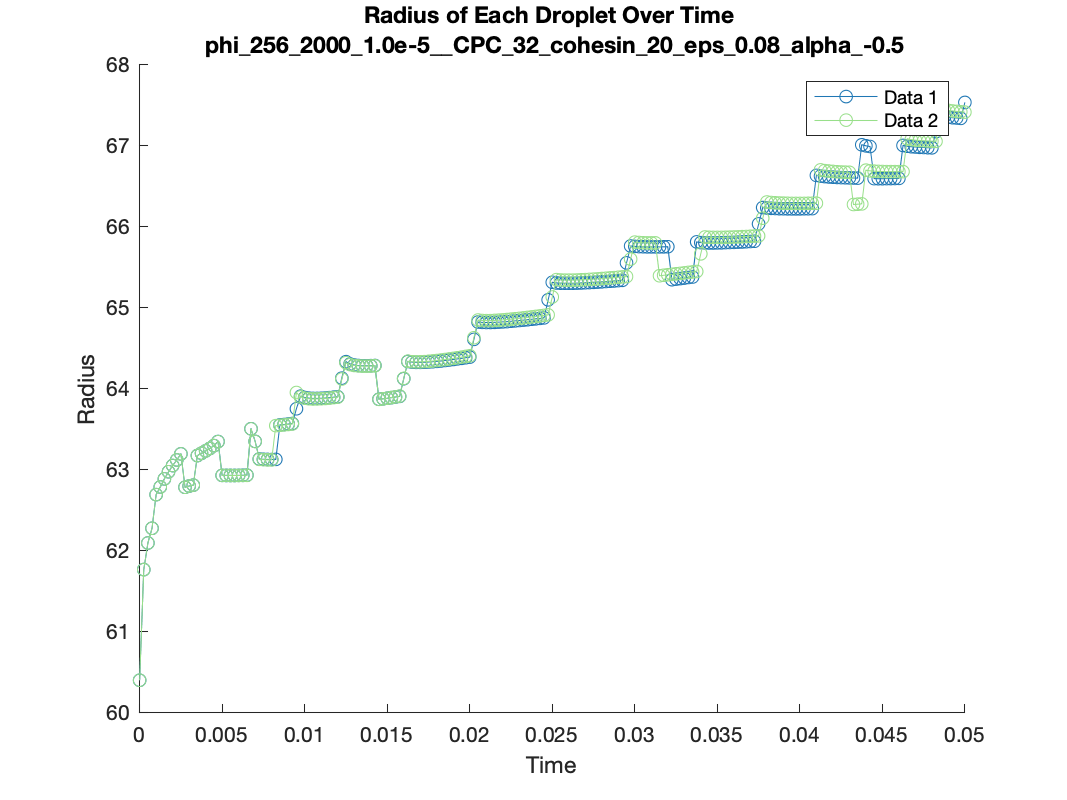
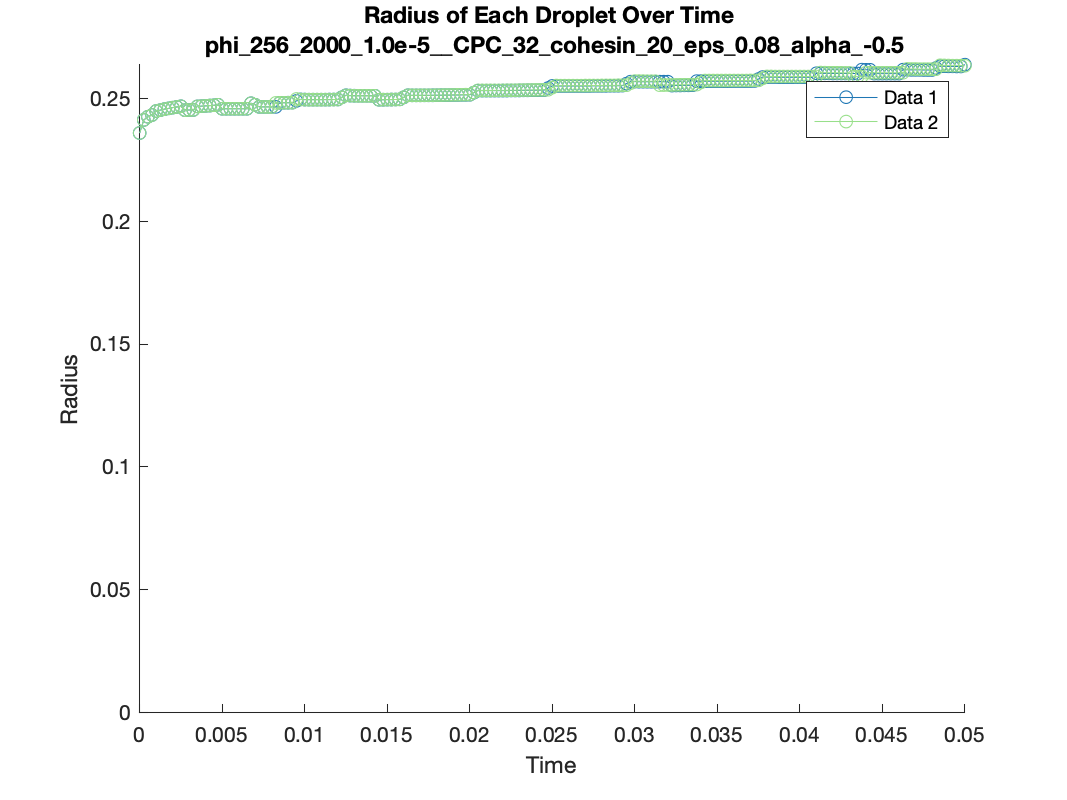
cpc radii 2

diff --git a/Cahn_Hilliard_solvers/plotting/level_set_radius_multiple_droplets.m b/Cahn_Hilliard_solvers/plotting/level_set_radius_multiple_droplets.m
@@ -1,7 +1,7 @@
 % Code transparency: part of this code was generated with ChatGPT4o.
 % June 25, 2025
 % Sarah Maddox Groves
-function [] = level_set_radius_multiple_droplets(CPC, cohesin, epsilon, indir)
+function [] = level_set_radius_multiple_droplets(CPC, cohesin, epsilon, indir, plottimepoint)
     % indir="/Users/smgroves/Documents/GitHub/Cahn_Hilliard_Model/Cahn_Hilliard_solvers/julia_multigrid/manuscript_output/CPC_geometry/CPC_alpha_-0.5";
     Nx = 2^8;Ny=2^8;
 
@@ -63,7 +63,7 @@ function [] = level_set_radius_multiple_droplets(CPC, cohesin, epsilon, indir)
             centerX = mean(dropletContour(1, :));
             centerY = mean(dropletContour(2, :));
             distances = sqrt((dropletContour(1, :) - centerX).^2 + (dropletContour(2, :) - centerY).^2);
-            radius = mean(distances);
+            radius = mean(distances)/Nx;
             
             % Store droplet information
             droplet = struct('center', [centerX, centerY], 'radius', radius, 'id', 0);
@@ -100,7 +100,6 @@ function [] = level_set_radius_multiple_droplets(CPC, cohesin, epsilon, indir)
             try
                 % Match droplets to the previous time point
                 previousDroplets = [dropletData(t-1).droplets];
-                sprintf("previous droplets id %f",previousDroplets.id)
 
                 for i = 1:length(currentDroplets)
                 
@@ -139,81 +138,82 @@ function [] = level_set_radius_multiple_droplets(CPC, cohesin, epsilon, indir)
                 break %if the droplet dissolves, this will throw an error, so stop iterating over timepoints
             end
         end
-        if ismember(timepoint, [0, 0.004, 0.0075, 0.008, 0.01, 0.025, 0.04, 0.05])
-            data_at_t = data(:, :,t);
-        
-            % Create contour plot
-            hx = 1;
-            hy = 1;
-            x  = hx*(0:Nx-1);           
-            y  = hy*(0:Ny-1);
-            [xx,yy] = meshgrid(x,y); 
-            figure('visible', 'off');
-            contour(data_at_t, [0, 0], 'LineWidth', 2, "Color", '#808080'); axis square;
-            xlim([0, 256]);
-            ylim([0, 256]);
-            hold on;
-        
-            % Extract contours at the 0 level
-            contourMatrix = contourc(data_at_t, [0, 0]);
-        
-            % Parse the contour matrix
-            startIdx = 1;
-            droplets = struct();
-        
-            while startIdx < size(contourMatrix, 2)
-                numPoints = contourMatrix(2, startIdx);
-                dropletContour = contourMatrix(:, startIdx+1:startIdx+numPoints);
-        
-                % Store droplet contour
-                droplets(end+1).contour = dropletContour;
-        
-                % Calculate the radius as the average distance from the center
-                centerX = mean(dropletContour(1, :));
-                centerY = mean(dropletContour(2, :));
-                distances = sqrt((dropletContour(1, :) - centerX).^2 + (dropletContour(2, :) - centerY).^2);
-                droplets(end).radius = mean(distances);
-                color = 'k';
-                label = 'Unknown';
-                % match colors
-                for i = 1:length(trackedDroplets)
-                    if abs(centerX-dropletData(t).droplets(i).center(1)) < 0.5 && abs(centerY-dropletData(t).droplets(i).center(2)) < 0.5
-                        color = colors{dropletData(t).droplets(i).id};
-                        label = sprintf('Data %d', dropletData(t).droplets(i).id);
-                        break
+        if false
+            if ismember(timepoint, [0, 0.004, 0.0075, 0.008, 0.01, 0.025, 0.04, 0.05])
+                data_at_t = data(:, :,t);
+            
+                % Create contour plot
+                hx = 1;
+                hy = 1;
+                x  = hx*(0:Nx-1);           
+                y  = hy*(0:Ny-1);
+                [xx,yy] = meshgrid(x,y); 
+                figure('visible', 'off');
+                contour(data_at_t, [0, 0], 'LineWidth', 2, "Color", '#808080'); axis square;
+                xlim([0, 256]);
+                ylim([0, 256]);
+                hold on;
+            
+                % Extract contours at the 0 level
+                contourMatrix = contourc(data_at_t, [0, 0]);
+            
+                % Parse the contour matrix
+                startIdx = 1;
+                droplets = struct();
+            
+                while startIdx < size(contourMatrix, 2)
+                    numPoints = contourMatrix(2, startIdx);
+                    dropletContour = contourMatrix(:, startIdx+1:startIdx+numPoints);
+            
+                    % Store droplet contour
+                    droplets(end+1).contour = dropletContour;
+            
+                    % Calculate the radius as the average distance from the center
+                    centerX = mean(dropletContour(1, :));
+                    centerY = mean(dropletContour(2, :));
+                    distances = sqrt((dropletContour(1, :) - centerX).^2 + (dropletContour(2, :) - centerY).^2);
+                    droplets(end).radius = mean(distances);
+                    color = 'k';
+                    label = 'Unknown';
+                    % match colors
+                    for i = 1:length(trackedDroplets)
+                        if abs(centerX-dropletData(t).droplets(i).center(1)) < 0.5 && abs(centerY-dropletData(t).droplets(i).center(2)) < 0.5
+                            color = colors{dropletData(t).droplets(i).id};
+                            label = sprintf('Data %d', dropletData(t).droplets(i).id);
+                            break
+                        end
                     end
+                    % Plot the center and radius
+                    plot(centerX, centerY, 'r+', 'MarkerSize', 10, 'LineWidth', 2,'Color', color, "DisplayName", label); axis square;
+                    viscircles([centerX, centerY], droplets(end).radius, 'EdgeColor', color); axis square;
+            
+                    % Move to the next contour
+                    startIdx = startIdx + numPoints + 1;
                 end
-                % Plot the center and radius
-                plot(centerX, centerY, 'r+', 'MarkerSize', 10, 'LineWidth', 2,'Color', color, "DisplayName", label); axis square;
-                viscircles([centerX, centerY], droplets(end).radius, 'EdgeColor', color); axis square;
-        
-                % Move to the next contour
-                startIdx = startIdx + numPoints + 1;
+                
+                % for i = 1:length(currentDroplets)
+                %     plot(dropletData(t).droplets(i).center(1), dropletData(t).droplets(i).center(2), 'x', 'MarkerSize', 10, 'LineWidth', 2,"Color", colors{dropletData(t).droplets(i).id},"DisplayName", sprintf("Current Droplet %d", dropletData(t).droplets(i).id)); axis square;
+                % 
+                % end
+
+
+                title(sprintf('Timepoint %f \n %s', timepoint, name));
+            
+                % Display results
+                % for i = 1:length(droplets)
+                %     try
+                %         fprintf('Droplet %d: Center = (%.2f, %.2f), Radius = %.6f\n', ...
+                %         i, mean(droplets(i).contour(1, :)), mean(droplets(i).contour(2, :)), droplets(i).radius);
+                %     end
+                % end
+                legend show;
+
+                sprintf('%s/radii_at_t_%s.pdf', outdir, timepoint)
+                print(gcf,sprintf('%s/radii_at_t_%f.png', outdir, timepoint),"-dpng")
+                
+                hold off;
             end
-            
-            % for i = 1:length(currentDroplets)
-            %     plot(dropletData(t).droplets(i).center(1), dropletData(t).droplets(i).center(2), 'x', 'MarkerSize', 10, 'LineWidth', 2,"Color", colors{dropletData(t).droplets(i).id},"DisplayName", sprintf("Current Droplet %d", dropletData(t).droplets(i).id)); axis square;
-            % 
-            % end
-
-
-            title(sprintf('Timepoint %f \n %s', timepoint, name));
-        
-            % Display results
-            % for i = 1:length(droplets)
-            %     try
-            %         fprintf('Droplet %d: Center = (%.2f, %.2f), Radius = %.6f\n', ...
-            %         i, mean(droplets(i).contour(1, :)), mean(droplets(i).contour(2, :)), droplets(i).radius);
-            %     end
-            % end
-            legend show;
-
-            sprintf('%s/radii_at_t_%s.pdf', outdir, timepoint)
-            print(gcf,sprintf('%s/radii_at_t_%f.png', outdir, timepoint),"-dpng")
-            
-            hold off;
         end
-
     end
 
     % Plot the radius of each droplet over time
@@ -225,6 +225,7 @@ function [] = level_set_radius_multiple_droplets(CPC, cohesin, epsilon, indir)
     xlabel('Time');
     ylabel('Radius');
     xlim([0, total_time]);
+    ylim([0,inf]);
     title(sprintf('Radius of Each Droplet Over Time \n %s', name));
     legend show;
     % sprintf('%s/radii_over_time.pdf', outdir)
@@ -233,20 +234,22 @@ function [] = level_set_radius_multiple_droplets(CPC, cohesin, epsilon, indir)
     print(gcf,sprintf('%s/radii_over_time.png', outdir),"-dpng")
     hold off;
 
-    figure('visible', 'off');
-    hold on;
-    for i=1:length(trackedDroplets)
-        plot(trackedDroplets(i).center(1), trackedDroplets(i).center(2), 'r+', 'MarkerSize', 10, 'LineWidth', 2, ...
-            'Color', colors{i},"DisplayName",sprintf('Data %d', i));
-    end
-    legend show;
-    xlim([0, 256]);
-    ylim([0, 256]);
-    title(sprintf('Centers of Each Droplet \n %s', name));
+    save(sprintf('%s/trackedDroplets.mat', outdir), "trackedDroplets")
 
-    % sprintf('%s/droplet_centers.pdf', outdir)
-    print(gcf,sprintf('%s/droplet_centers.png', outdir),"-dpng")
-    hold off;
+    % figure('visible', 'off');
+    % hold on;
+    % for i=1:length(trackedDroplets)
+    %     plot(trackedDroplets(i).center(1), trackedDroplets(i).center(2), 'r+', 'MarkerSize', 10, 'LineWidth', 2, ...
+    %         'Color', colors{i},"DisplayName",sprintf('Data %d', i));
+    % end
+    % legend show;
+    % xlim([0, 256]);
+    % ylim([0, 256]);
+    % title(sprintf('Centers of Each Droplet \n %s', name));
+
+    % % sprintf('%s/droplet_centers.pdf', outdir)
+    % print(gcf,sprintf('%s/droplet_centers.png', outdir),"-dpng")
+    % hold off;
 
 
     % %%%%%%%%%%%%%%%%%%%%%%%%%%
